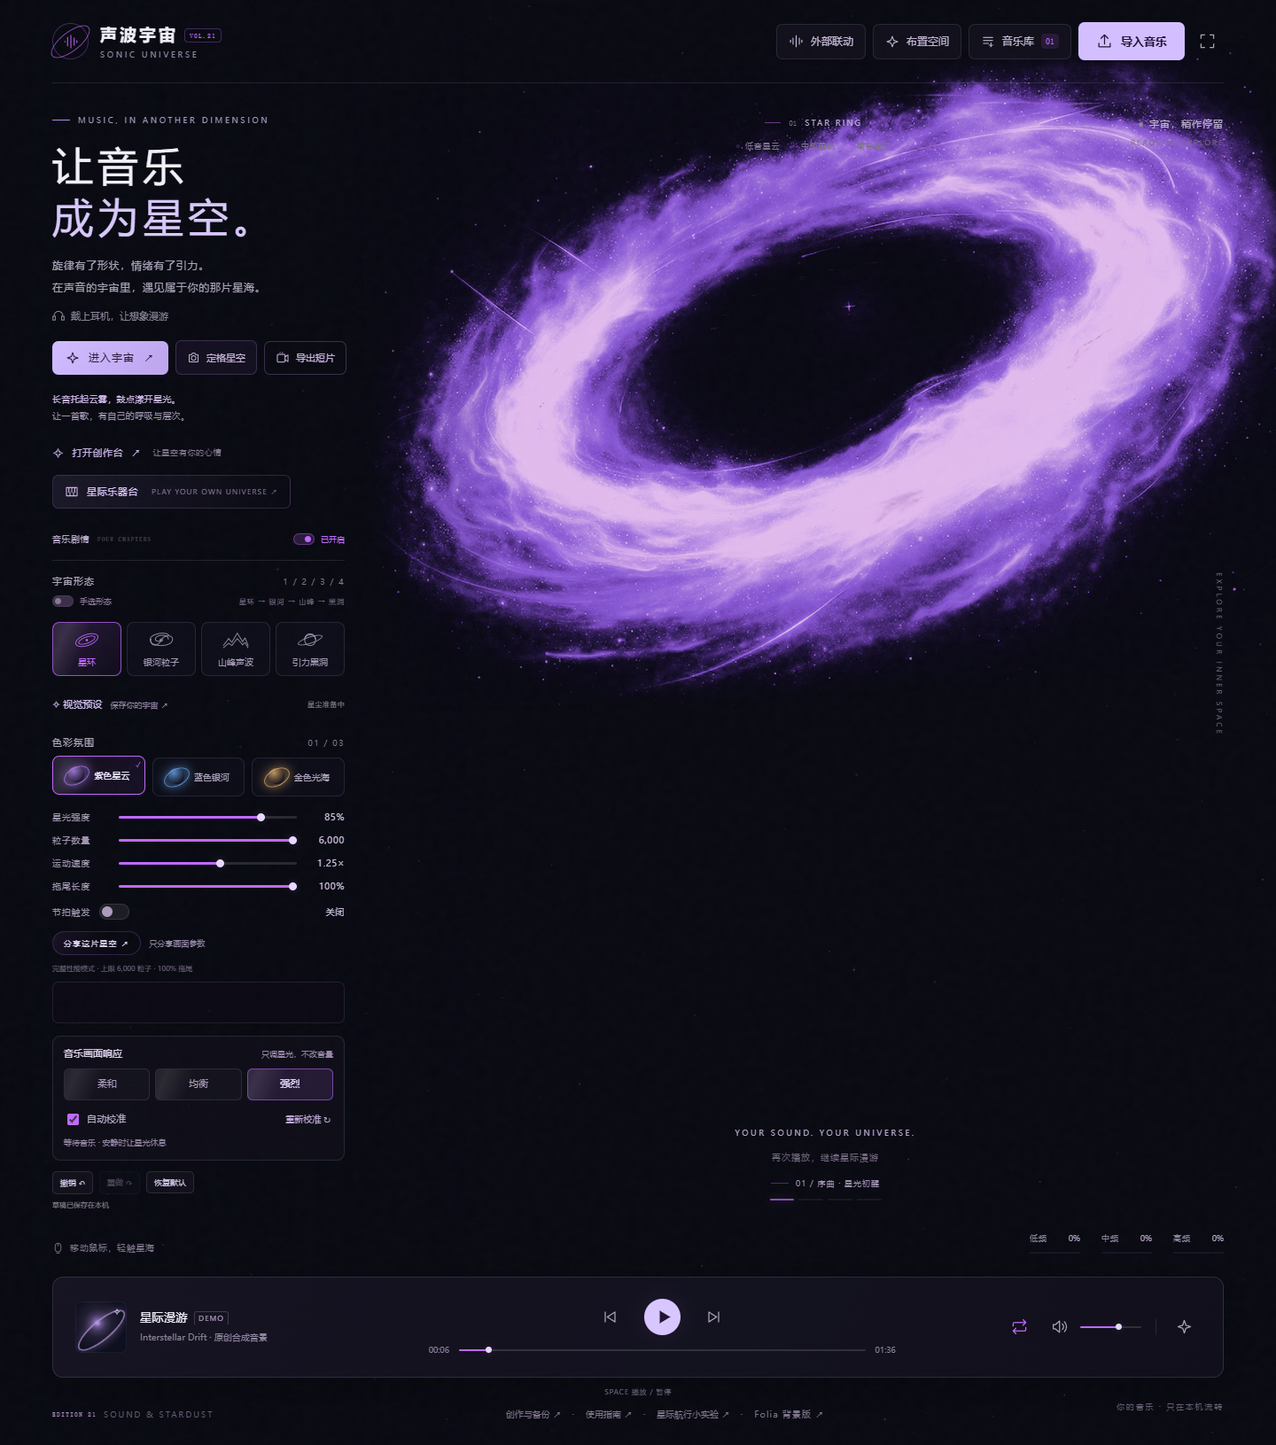
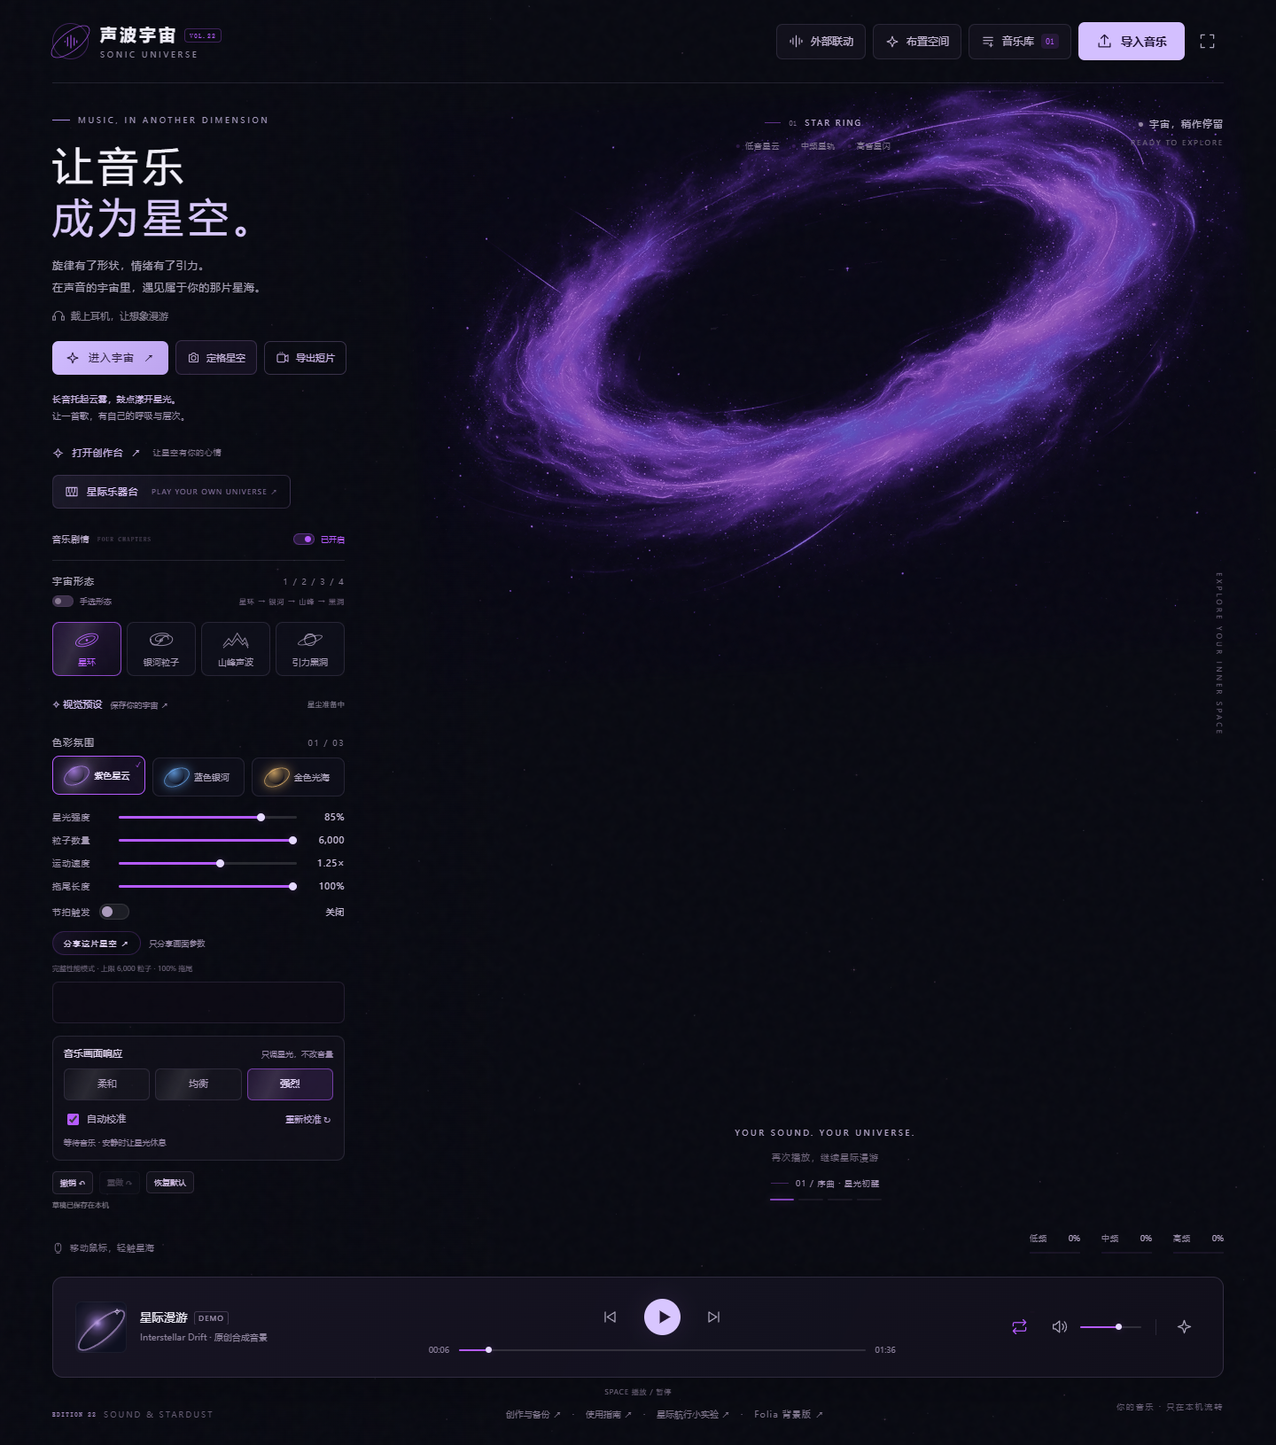
发布第二十二版：参考图风格体积星云

Changed region(s): [[0.3125, 0.0307, 1.0, 0.4905]]

diff --git a/outputs/index.html b/outputs/index.html
@@ -4,7 +4,7 @@
 <meta charset="utf-8">
 <meta name="viewport" content="width=device-width,initial-scale=1">
 <meta name="theme-color" content="#080811">
-<title>声波宇宙 21 · 让音乐成为星空</title>
+<title>声波宇宙 22 · 让音乐成为星空</title>
 <style>.help-btn{text-decoration:none}.footer-links{flex-wrap:wrap}</style>
 <meta name="description" content="让音乐成为星空。在星环、银河、山峰与引力黑洞之间旅行，收藏自己的视觉预设，演奏旋律并导出有声短片。">
 <meta property="og:type" content="website">
@@ -166,7 +166,7 @@
   <canvas id="universe" role="img" aria-label="一片随音乐频率起伏的星空，低音推开星云，中频留下星轨，高音点亮星闪">你的浏览器暂不支持星空画布。</canvas>
   <div class="grain" aria-hidden="true"></div>
   <header class="header">
-    <div class="brand"><div class="brand-mark" aria-hidden="true"><svg viewBox="0 0 32 32"><path d="M7 17v-2m4 8V9m5 17V6m5 16V10m4 8v-4"/></svg></div><div><div class="brand-name">声波宇宙<span class="version">VOL.21</span></div><div class="brand-en">SONIC UNIVERSE</div></div></div>
+    <div class="brand"><div class="brand-mark" aria-hidden="true"><svg viewBox="0 0 32 32"><path d="M7 17v-2m4 8V9m5 17V6m5 16V10m4 8v-4"/></svg></div><div><div class="brand-name">声波宇宙<span class="version">VOL.22</span></div><div class="brand-en">SONIC UNIVERSE</div></div></div>
     <div class="header-right"><button class="header-action external-action" id="externalBtn" aria-label="外部音乐联动" title="外部音乐联动"><svg viewBox="0 0 24 24"><path d="M3 10v4m4-7v10m5-14v18m5-14v10m4-7v4"/></svg><span class="action-label">外部联动</span></button><button class="header-action studio-action" id="studioBtn" aria-label="布置我的音乐空间" title="布置空间"><svg viewBox="0 0 24 24"><path d="m12 3 2.3 6.7L21 12l-6.7 2.3L12 21l-2.3-6.7L3 12l6.7-2.3Z"/></svg><span class="action-label">布置空间</span></button><button class="header-action" id="queueBtn" aria-label="打开播放列表" title="播放列表"><svg viewBox="0 0 24 24"><path d="M4 5h16M4 10h16M4 15h9m4-1v7m-3-3h6"/></svg><span class="action-label">音乐库</span><span class="queue-count" id="queueCount">01</span></button><button class="upload-btn" id="uploadBtn" aria-label="导入多首音乐" title="可同时选择多首音乐"><svg viewBox="0 0 24 24"><path d="M12 16V3m-5 5 5-5 5 5M4 15v5h16v-5"/></svg><span>导入音乐</span></button><button class="icon-btn" id="fullscreenBtn" aria-label="进入全屏" title="全屏 · F"><svg viewBox="0 0 24 24"><path d="M8 3H3v5m13-5h5v5M3 16v5h5m13-5v5h-5"/></svg></button></div>
   </header>
   <main class="stage" id="stage">
@@ -201,9 +201,9 @@
     <div class="spectrum-panel" aria-label="实时音频频段"><div class="band"><div class="band-label">低频<output id="bassValue">0%</output></div><div class="band-track"><span class="band-fill" id="bassFill"></span></div></div><div class="band"><div class="band-label">中频<output id="midValue">0%</output></div><div class="band-track"><span class="band-fill" id="midFill"></span></div></div><div class="band"><div class="band-label">高频<output id="highValue">0%</output></div><div class="band-track"><span class="band-fill" id="highFill"></span></div></div></div>
   </main>
   <div class="source-ribbon" id="sourceRibbon"><span><i aria-hidden="true"></i>外部声音已接入<small>选歌、暂停与音量在原播放器操作</small></span><button id="sourceManageBtn">管理联动 ↗</button></div><div class="player-wrap"><section class="player" aria-label="音乐播放器"><div class="track"><button class="album album-button" id="albumButton" aria-label="更换歌曲封面" title="布置空间与歌曲封面"><img id="albumImage" alt="" hidden></button><div class="track-text"><div class="track-title" id="trackTitle" title="星际漫游 · Interstellar Drift">星际漫游<span class="track-tag" id="trackTag">DEMO</span></div><div class="track-sub" id="trackSub">Interstellar Drift · 原创合成音景</div></div></div><div class="transport"><div class="transport-buttons"><button class="icon-btn" id="restartBtn" aria-label="上一首" title="上一首"><svg viewBox="0 0 24 24"><path d="M5 5v14m14-14L8 12l11 7Z"/></svg></button><button class="play-btn" id="playBtn" aria-label="播放音乐" title="播放 / 暂停 · 空格"><svg class="play-icon" viewBox="0 0 24 24"><path d="m7 3 15 9-15 9Z"/></svg></button><button class="icon-btn" id="forwardBtn" aria-label="下一首" title="下一首"><svg viewBox="0 0 24 24"><path d="m5 5 11 7-11 7Zm14 0v14"/></svg></button></div><div class="progress-row"><span id="currentTime">00:00</span><input class="range" id="seek" type="range" min="0" max="96" step="0.1" value="0" aria-label="播放进度" aria-valuetext="00:00 / 01:36"><span id="duration">01:36</span></div></div><div class="player-right"><button class="icon-btn active" id="repeatBtn" aria-label="关闭单曲循环" aria-pressed="true" title="单曲循环：开"><svg viewBox="0 0 24 24"><path d="m17 2 4 4-4 4M3 11V8a2 2 0 0 1 2-2h16M7 22l-4-4 4-4m14-1v3a2 2 0 0 1-2 2H3"/></svg></button><div class="volume"><button class="icon-btn" id="muteBtn" aria-label="静音" aria-pressed="false" title="静音 · M"><svg viewBox="0 0 24 24"><path d="m11 4-6 5H2v6h3l6 5Zm4 4a6 6 0 0 1 0 8m3-11a10 10 0 0 1 0 14"/></svg></button><input class="range" id="volume" type="range" min="0" max="100" value="65" aria-label="音量" aria-valuetext="65%"></div><span class="player-divider"></span><button class="icon-btn" id="quietBtn" aria-label="进入宇宙" title="沉浸漫游 · H"><svg viewBox="0 0 24 24"><path d="m12 3 2.2 6.8L21 12l-6.8 2.2L12 21l-2.2-6.8L3 12l6.8-2.2Z"/></svg></button></div></section><span class="keyboard-hint">SPACE 播放 / 暂停</span></div>
-  <footer class="footer"><span class="footer-brand"><b>EDITION 21</b> SOUND & STARDUST</span><div class="footer-links footer-center"><button class="help-btn" id="projectBtn">创作与备份 ↗</button><span aria-hidden="true">·</span><button class="help-btn" id="helpBtn">使用指南 ↗</button><span aria-hidden="true">·</span><button class="help-btn" id="flightBtn" title="可选的独立节奏小游戏">星际航行小实验 ↗</button><span aria-hidden="true">·</span><a class="help-btn" href="https://github.com/Hgb-2005/sonic-universe/releases/latest/download/sonic-universe-folia-1.0.0.zip" title="下载 Folia 音乐星空背景模组">Folia 背景版 ↗</a></div><span>你的音乐 · 只在本机流转</span></footer>
+  <footer class="footer"><span class="footer-brand"><b>EDITION 22</b> SOUND & STARDUST</span><div class="footer-links footer-center"><button class="help-btn" id="projectBtn">创作与备份 ↗</button><span aria-hidden="true">·</span><button class="help-btn" id="helpBtn">使用指南 ↗</button><span aria-hidden="true">·</span><button class="help-btn" id="flightBtn" title="可选的独立节奏小游戏">星际航行小实验 ↗</button><span aria-hidden="true">·</span><a class="help-btn" href="https://github.com/Hgb-2005/sonic-universe/releases/latest/download/sonic-universe-folia-1.0.0.zip" title="下载 Folia 音乐星空背景模组">Folia 背景版 ↗</a></div><span>你的音乐 · 只在本机流转</span></footer>
   <div class="roam-surface" id="roamSurface" tabindex="0" role="region" aria-label="星空漫游：轻触唤醒按钮，拖动旋转视角，滚轮或双指缩放，加减键调整距离，0 重置，C 定格，右上角选星空，H 或 Escape 返回"></div>
-  <div class="roam-ui roam-top"><div class="roam-identity"><div class="roam-kicker">SONIC JOURNEY · VOL.21</div><p id="roamTrack">星际漫游</p><button class="roam-export" id="roamClipBtn">录一段星空 ↗</button><button class="roam-export roam-atelier" id="roamAtelierBtn">心情 · 歌词 · 收藏 ↗</button><button class="roam-export roam-atelier" id="roamInstrumentBtn">弹出星空 ↗</button></div><div class="roam-top-actions"><button class="roam-look-toggle" id="roamLookBtn" aria-expanded="false" aria-controls="roamLookPanel" aria-label="选择星空氛围"><svg viewBox="0 0 24 24" aria-hidden="true"><path d="m12 3 2.3 6.7L21 12l-6.7 2.3L12 21l-2.3-6.7L3 12l6.7-2.3Z"/></svg>选星空</button><button class="quiet-exit" id="quietExit"><svg viewBox="0 0 24 24"><path d="m14 5-7 7 7 7M7 12h13"/></svg>返回空间 · Esc</button></div>
+  <div class="roam-ui roam-top"><div class="roam-identity"><div class="roam-kicker">SONIC JOURNEY · VOL.22</div><p id="roamTrack">星际漫游</p><button class="roam-export" id="roamClipBtn">录一段星空 ↗</button><button class="roam-export roam-atelier" id="roamAtelierBtn">心情 · 歌词 · 收藏 ↗</button><button class="roam-export roam-atelier" id="roamInstrumentBtn">弹出星空 ↗</button></div><div class="roam-top-actions"><button class="roam-look-toggle" id="roamLookBtn" aria-expanded="false" aria-controls="roamLookPanel" aria-label="选择星空氛围"><svg viewBox="0 0 24 24" aria-hidden="true"><path d="m12 3 2.3 6.7L21 12l-6.7 2.3L12 21l-2.3-6.7L3 12l6.7-2.3Z"/></svg>选星空</button><button class="quiet-exit" id="quietExit"><svg viewBox="0 0 24 24"><path d="m14 5-7 7 7 7M7 12h13"/></svg>返回空间 · Esc</button></div>
     <section class="roam-look-panel" id="roamLookPanel" hidden aria-labelledby="roamLookTitle">
       <div class="roam-look-heading"><div><h2 id="roamLookTitle">此刻，想听见哪片星空</h2><span class="roam-look-current" id="roamLookCurrent"></span></div><button class="icon-btn" id="roamLookClose" aria-label="关闭星空氛围">×</button></div>
       <div class="roam-look-grid" id="roamLookGrid" role="group" aria-label="沉浸星空氛围"></div>
@@ -373,10 +373,10 @@
   <div class="instrument-footer"><div><span class="storage-status" role="status">旋律与设置仅保存在本机</span><small>录制一层前数 4 拍，循环播放时可继续录下一层。最多 6 层；关闭乐器台会停止演奏。</small></div><button class="primary-btn" id="instrumentFilmBtn">把演奏录成短片 ↗</button></div>
 </dialog>
 
-<script src="./project-pack.js?v=21"></script>
-<script src="./music-motion.js?v=21"></script>
-<script src="./visual-presets.js?v=21"></script>
-<script src="./visual-system.js?v=21"></script>
+<script src="./project-pack.js?v=22"></script>
+<script src="./music-motion.js?v=22"></script>
+<script src="./visual-presets.js?v=22"></script>
+<script src="./visual-system.js?v=22"></script>
 <script>
 (() => {
   'use strict';
@@ -390,7 +390,7 @@
   const $ = id => document.getElementById(id);
   const app = $('app'), canvas = $('universe');let ctx = canvas && canvas.getContext('2d', { alpha:false });
   if (!ctx) { window.reportVisualFatal?.('当前浏览器无法创建 2D 星空画布。请开启硬件加速或更换新版浏览器。'); return; }
-  const nebulaAssetSources=Object.freeze({ring:'./assets/nebula-ring.png',galaxy:'./assets/nebula-galaxy.png',peaks:'./assets/nebula-landscape.png',blackhole:'./assets/nebula-blackhole.png'});
+  const nebulaAssetSources=Object.freeze({ring:'./assets/nebula-ring.webp',galaxy:'./assets/nebula-galaxy.webp',peaks:'./assets/nebula-landscape.webp',blackhole:'./assets/nebula-blackhole.webp'});
   const nebulaImages={},nebulaRecolored=new Map();
   let nebulaAssetsState='loading',nebulaAssetsSettled=false,visualFirstFrameReady=false;
   function updateNebulaAssetDiagnostics(progress){
@@ -435,7 +435,7 @@
   window.addEventListener('unhandledrejection',event=>{if(!visualFirstFrameReady)window.reportVisualFatal?.('星空引擎启动失败：'+(event.reason?.message||'未知错误'))});
   const audio = $('audio'), playBtn = $('playBtn'), seek = $('seek');
   const themes = {
-    nebula:{name:'紫色星云',index:1,shadow:[7,5,20],second:[91,43,153],core:[193,105,255],cool:[70,143,255],hot:[255,222,250],accent:'#c7afff',bg:'#171329'},
+    nebula:{name:'紫色星云',index:1,shadow:[7,5,20],second:[72,32,145],core:[181,91,255],cool:[55,166,255],hot:[255,184,246],accent:'#c7afff',bg:'#171329'},
     galaxy:{name:'蓝色银河',index:2,shadow:[3,9,24],second:[20,70,145],core:[65,171,255],cool:[106,225,255],hot:[218,248,255],accent:'#9dccff',bg:'#0d1c30'},
     solar:{name:'金色光海',index:3,shadow:[21,10,5],second:[135,61,20],core:[249,139,42],cool:[226,92,40],hot:[255,237,180],accent:'#f1c58f',bg:'#251b13'}
   };
@@ -791,7 +791,7 @@
     }finally{ctx=saved.ctx;w=saved.w;h=saved.h;dpr=saved.dpr;centerX=saved.centerX;centerY=saved.centerY;baseR=saved.baseR;backgroundLayer=saved.backgroundLayer;exportRendering=false}
     const portrait=shape==='portrait',margin=portrait?58:78,font='"Microsoft YaHei UI","Microsoft YaHei",sans-serif',meta=clipSession||{song:$('clipSong').value,author:$('clipAuthor').value,mood:$('clipMood').value};
     const shade=g.createLinearGradient(0,height*.63,0,height);shade.addColorStop(0,'rgba(8,9,17,0)');shade.addColorStop(1,'rgba(8,9,17,.89)');g.fillStyle=shade;g.fillRect(0,height*.63,width,height*.37);
-    g.textAlign='left';g.textBaseline='top';g.font='13px '+font;g.fillStyle=rgba(palette.core,.72);g.fillText('SONIC UNIVERSE  /  21',margin,portrait?58:42);
+    g.textAlign='left';g.textBaseline='top';g.font='13px '+font;g.fillStyle=rgba(palette.core,.72);g.fillText('SONIC UNIVERSE  /  22',margin,portrait?58:42);
     let y=height-(portrait?294:225);g.fillStyle='#f0e8fc';g.font='500 '+(portrait?36:30)+'px '+font;
     for(const line of clipTextLines(g,meta.song,width-margin*2,2)){g.fillText(line,margin,y);y+=portrait?46:38}
     y+=12;g.font=(portrait?'20':'18')+'px '+font;g.fillStyle='#c0aecf';for(const line of clipTextLines(g,meta.mood,width-margin*2,portrait?3:2)){g.fillText(line,margin,y);y+=portrait?29:25}
@@ -1626,7 +1626,7 @@
     g.strokeStyle=line;g.lineWidth=1;g.strokeRect(29.5,29.5,1741,1291);
     g.fillStyle=muted;g.font='16px ui-monospace,Consolas,monospace';
     g.fillText('SONIC UNIVERSE  /  A POSTCARD FROM THE STARS',69,78);
-    g.textAlign='right';g.fillText('VOL.21',1731,78);g.textAlign='left';
+    g.textAlign='right';g.fillText('VOL.22',1731,78);g.textAlign='left';
     const art={x:69,y:109,w:1662,h:842},source=capturedScene,aspect=art.w/art.h;
     let sw,sh;
     if(capturedMoment.quiet){sw=source.width;sh=sw/aspect;if(sh>source.height){sh=source.height;sw=sh*aspect}}
@@ -2706,29 +2706,23 @@
     const sourceCtx=source.getContext('2d',{willReadFrequently:true});sourceCtx.drawImage(image,0,0);
     const frame=sourceCtx.getImageData(0,0,source.width,source.height),data=frame.data,colors=themes[key];
     const shadow=colors.shadow,body=colors.second,core=colors.core,cool=colors.cool,hot=colors.hot;
-    const mix=(a,b,amount)=>a+(b-a)*amount;
-    const smooth=(edge0,edge1,value)=>{const x=clamp((value-edge0)/(edge1-edge0),0,1);return x*x*(3-2*x)};
+    const soft=(edge0,edge1,value)=>{const x=clamp((value-edge0)/(edge1-edge0),0,1);return x*x*(3-2*x)};
     for(let i=0;i<data.length;i+=4){
-      const hotMask=data[i]/255,bodyMask=data[i+1]/255,coolMask=data[i+2]/255,alpha=data[i+3]/255;
-      if(alpha<.008){data[i]=data[i+1]=data[i+2]=data[i+3]=0;continue}
-      // RGB is a material pass shared by every palette:
-      // R = broken hot ridges, G = broad cloud body, B = cool filaments.
-      const liftedBody=Math.pow(bodyMask,.86);
-      const bodyRamp=smooth(.02,.84,liftedBody);
-      const coreRamp=smooth(.34,.98,liftedBody);
-      const ridge=Math.pow(hotMask,.72);
-      const coolRamp=smooth(.08,.92,coolMask);
-      let red=mix(shadow[0],body[0],bodyRamp);
-      let green=mix(shadow[1],body[1],bodyRamp);
-      let blue=mix(shadow[2],body[2],bodyRamp);
-      red=mix(red,core[0],coreRamp*.66);green=mix(green,core[1],coreRamp*.66);blue=mix(blue,core[2],coreRamp*.66);
-      red=mix(red,cool[0],coolRamp*.16);green=mix(green,cool[1],coolRamp*.16);blue=mix(blue,cool[2],coolRamp*.16);
-      red=mix(red,hot[0],ridge*.78);green=mix(green,hot[1],ridge*.78);blue=mix(blue,hot[2],ridge*.78);
-      const contrast=.90+alpha*.13;
-      data[i]=Math.round(clamp(red*contrast,0,255));
-      data[i+1]=Math.round(clamp(green*contrast,0,255));
-      data[i+2]=Math.round(clamp(blue*contrast,0,255));
-      data[i+3]=Math.round(clamp(alpha*(.97+bodyMask*.035),0,.98)*255);
+      const value=data[i]/255,warm=data[i+1]/255,coolMask=data[i+2]/255,alpha=data[i+3]/255;
+      if(alpha<.014){data[i]=data[i+1]=data[i+2]=data[i+3]=0;continue}
+      // R is the shared cloud luminance. G and B identify warm and cool
+      // filaments, so every palette keeps the exact same ridges and dust gaps.
+      const bodyRamp=soft(.015,.74,value),coreRamp=soft(.18,.95,value),ridgeRamp=soft(.18,.92,value);
+      let red=shadow[0]+(body[0]-shadow[0])*bodyRamp;
+      let green=shadow[1]+(body[1]-shadow[1])*bodyRamp;
+      let blue=shadow[2]+(body[2]-shadow[2])*bodyRamp;
+      red+=(core[0]-red)*coreRamp*.54;green+=(core[1]-green)*coreRamp*.54;blue+=(core[2]-blue)*coreRamp*.54;
+      const coolAmount=coolMask*ridgeRamp*.48;
+      red+=(cool[0]-red)*coolAmount;green+=(cool[1]-green)*coolAmount;blue+=(cool[2]-blue)*coolAmount;
+      const hotAmount=warm*ridgeRamp*.58;
+      red+=(hot[0]-red)*hotAmount;green+=(hot[1]-green)*hotAmount;blue+=(hot[2]-blue)*hotAmount;
+      data[i]=Math.round(clamp(red,0,255));data[i+1]=Math.round(clamp(green,0,255));data[i+2]=Math.round(clamp(blue,0,255));
+      data[i+3]=Math.round(alpha*247);
     }
     sourceCtx.putImageData(frame,0,0);
     nebulaRecolored.set(cacheKey,source);return source;
@@ -2736,10 +2730,10 @@
   function drawNebulaAsset(scene,cx,cy,r,t,opacity,look){
     const surface=recolorNebula(scene,themeKey);if(!surface||opacity<=.002)return false;
     const config={
-      ring:{width:4.18,height:2.87,x:.03,y:-.01,rotate:-.055},
-      galaxy:{width:4.36,height:2.99,x:.02,y:0,rotate:.06},
-      peaks:{width:4.30,height:2.95,x:.02,y:.03,rotate:-.018},
-      blackhole:{width:4.32,height:2.96,x:.02,y:0,rotate:-.05}
+      ring:{width:3.80,height:2.62,x:.060,y:-.01,rotate:-.055},
+      galaxy:{width:4.05,height:2.78,x:.035,y:0,rotate:.06},
+      peaks:{width:4.10,height:2.78,x:.025,y:.035,rotate:-.018},
+      blackhole:{width:4.05,height:2.76,x:.035,y:0,rotate:-.05}
     }[scene];
     const calm=reduced?0:1,phase=scene==='ring'?0:scene==='galaxy'?1.7:scene==='peaks'?3.1:4.5;
     const breathe=1+bass*.004*look.intensity+Math.sin(t*.052+phase)*.0025*calm;
@@ -2748,7 +2742,7 @@
     const width=r*config.width*breathe,height=r*config.height*breathe;
     const rotation=config.rotate+(Math.sin(t*.034+phase)*.0025+mid*.0012)*calm*Math.min(1.12,look.motionSpeed);
     ctx.save();ctx.globalCompositeOperation='source-over';
-    ctx.globalAlpha=opacity*clamp(.88+look.intensity*.09+visualEffects.glow*.035,0,.995);
+    ctx.globalAlpha=opacity*clamp(.92+look.intensity*.075+visualEffects.glow*.02,0,1);
     ctx.translate(driftX,driftY);ctx.rotate(rotation);ctx.drawImage(surface,-width/2,-height/2,width,height);
     ctx.restore();return true;
   }

diff --git a/outputs/visual-system.js b/outputs/visual-system.js
@@ -133,7 +133,7 @@
     url.searchParams.set("depth", String(Math.round(normalized.depth * 100)));
     url.searchParams.set("glow", String(Math.round(normalized.glow * 100)));
     url.searchParams.set("motionSpeed", String(Math.round(normalized.motionSpeed * 100)));
-    url.searchParams.set("v", "21");
+    url.searchParams.set("v", "22");
     return url.toString();
   }
 

diff --git a/outputs/使用说明.md b/outputs/使用说明.md
@@ -1,21 +1,21 @@
-# 声波宇宙 · 第二十一版「暗尘裂缝体积星云」
+# 声波宇宙 · 第二十二版「暗尘裂缝体积星云」
 
 在线体验：[打开声波宇宙](https://hgb-2005.github.io/sonic-universe/)
 
-本机预览：[打开第二十一版](http://127.0.0.1:8765/?v=21)
+本机预览：[打开第二十二版](http://127.0.0.1:8765/?v=22)
 
 在线版不需要启动本机服务。在线版与本机版属于不同的网站来源，音乐库、歌词和草稿各自保存在当前浏览器中，不会自动互通；导入的音乐与图片不会上传到 GitHub。视觉预设可导出 JSON 备份或转移。
 
 
 ## 打开作品与恢复预览服务
 
-在项目文件夹双击 **打开声波宇宙.cmd**，会启动本机预览服务并打开第二十一版。地址仍是 http://127.0.0.1:8765/ ，保留同一浏览器中的音乐库与草稿。
+在项目文件夹双击 **打开声波宇宙.cmd**，会启动本机预览服务并打开第二十二版。地址仍是 http://127.0.0.1:8765/ ，保留同一浏览器中的音乐库与草稿。
 
 服务由独立的后台 Python 进程运行，不依赖编辑器中的临时终端。重复运行启动器会复用已经运行的本作品服务；其他程序占用 8765 端口时会说明原因，不会结束其他程序。
 
 使用本机版时，重启电脑后需要再次运行启动器，127.0.0.1 只能在当前电脑访问。本机版服务断开时会显示重启提示；浏览器已经显示“无法访问”时，双击启动器后再刷新即可。在线版可直接通过上方 HTTPS 链接访问，连接检查保留项目路径，暂时断网时会显示网络提示。
 
-## 第二十一版 · 暗尘裂缝体积星云
+## 第二十二版 · 暗尘裂缝体积星云
 
 这一版按选定的参考图重做四套主画面，重点是把原来的流体粒子轮廓升级为细节更丰富的体积星云层，同时保留完整音乐响应和原有操作。
 
@@ -27,7 +27,7 @@
 - **叠加响应**：低频控制整体呼吸和光晕，中频控制流动，高频触发星闪。没有音乐时，四套画面仍以低速自主流动。
 - **兼容与回退**：四张纹理未能载入时会回到程序化流体画面；手机端自动减少叠加粒子和绘制开销。
 
-第二十一版已在桌面和 390 × 844 移动视口检查四形态、三套主题、静默与音乐响应、分享恢复、纹理加载状态、0%／100% 拖尾和实际短片录制，并确认四张体积星云纹理均正常载入。手机检查使用浏览器触屏模拟，实体手机的长时发热和帧率仍需以实际设备为准。
+第二十二版已在桌面和 390 × 844 移动视口检查四形态、三套主题、静默与音乐响应、分享恢复、纹理加载状态、0%／100% 拖尾和实际短片录制，并确认四张体积星云纹理均正常载入。手机检查使用浏览器触屏模拟，实体手机的长时发热和帧率仍需以实际设备为准。
 
 ## 第十九版 · 让四种形态一起流动
 
